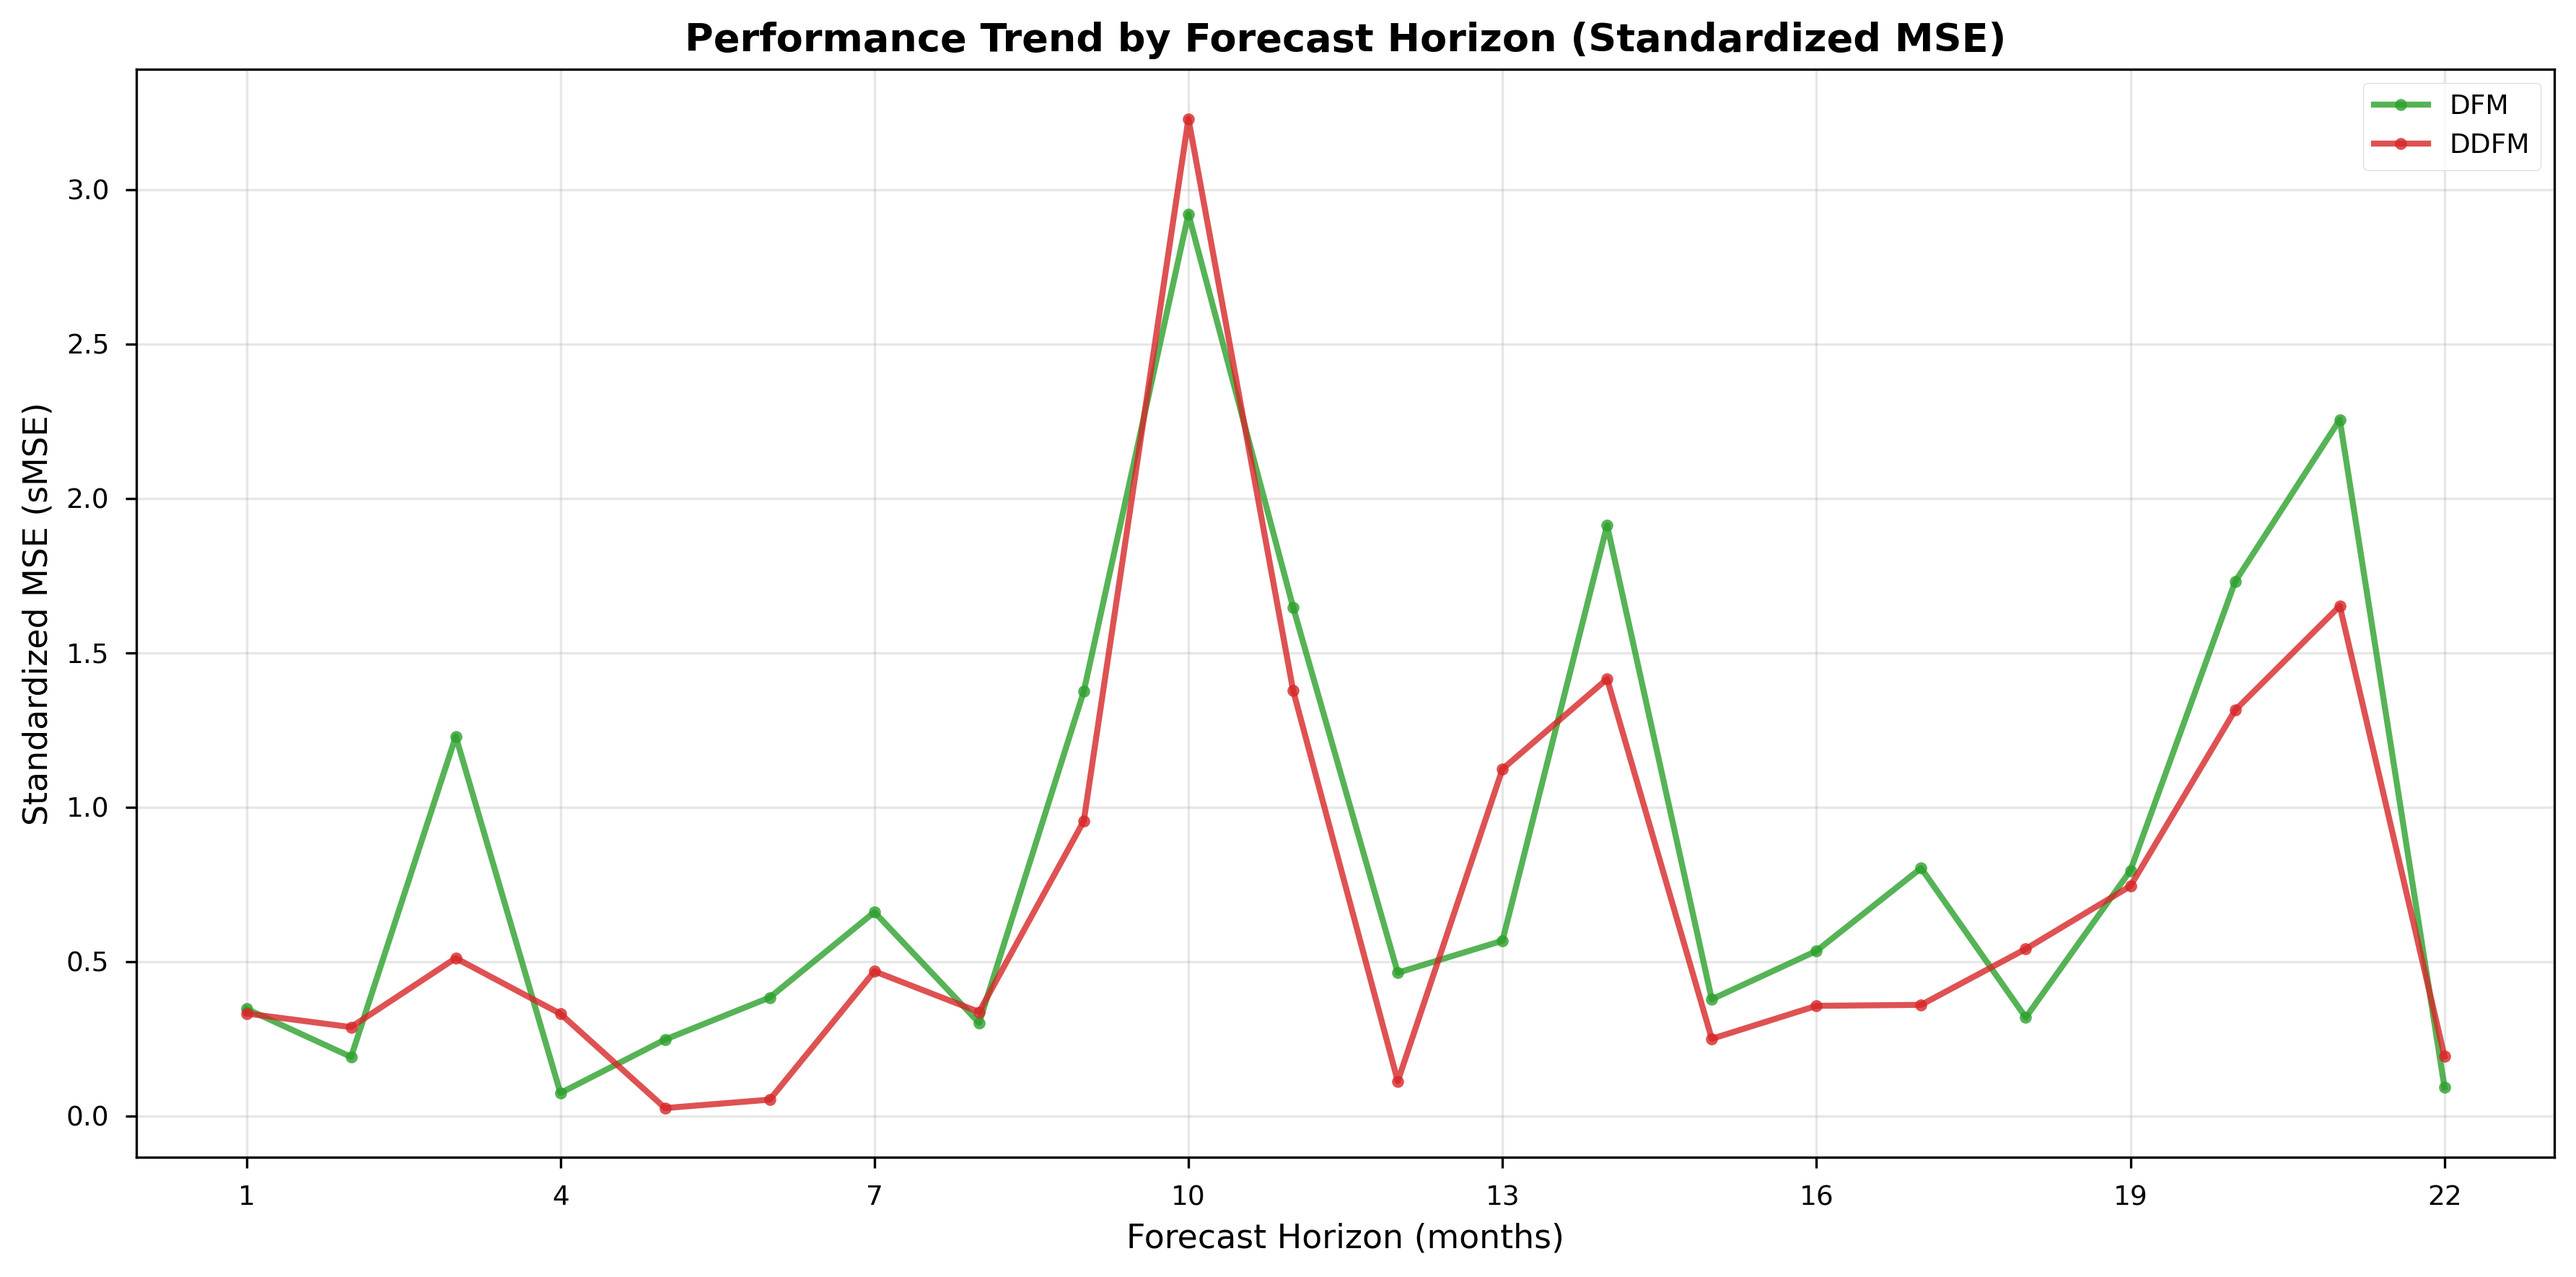
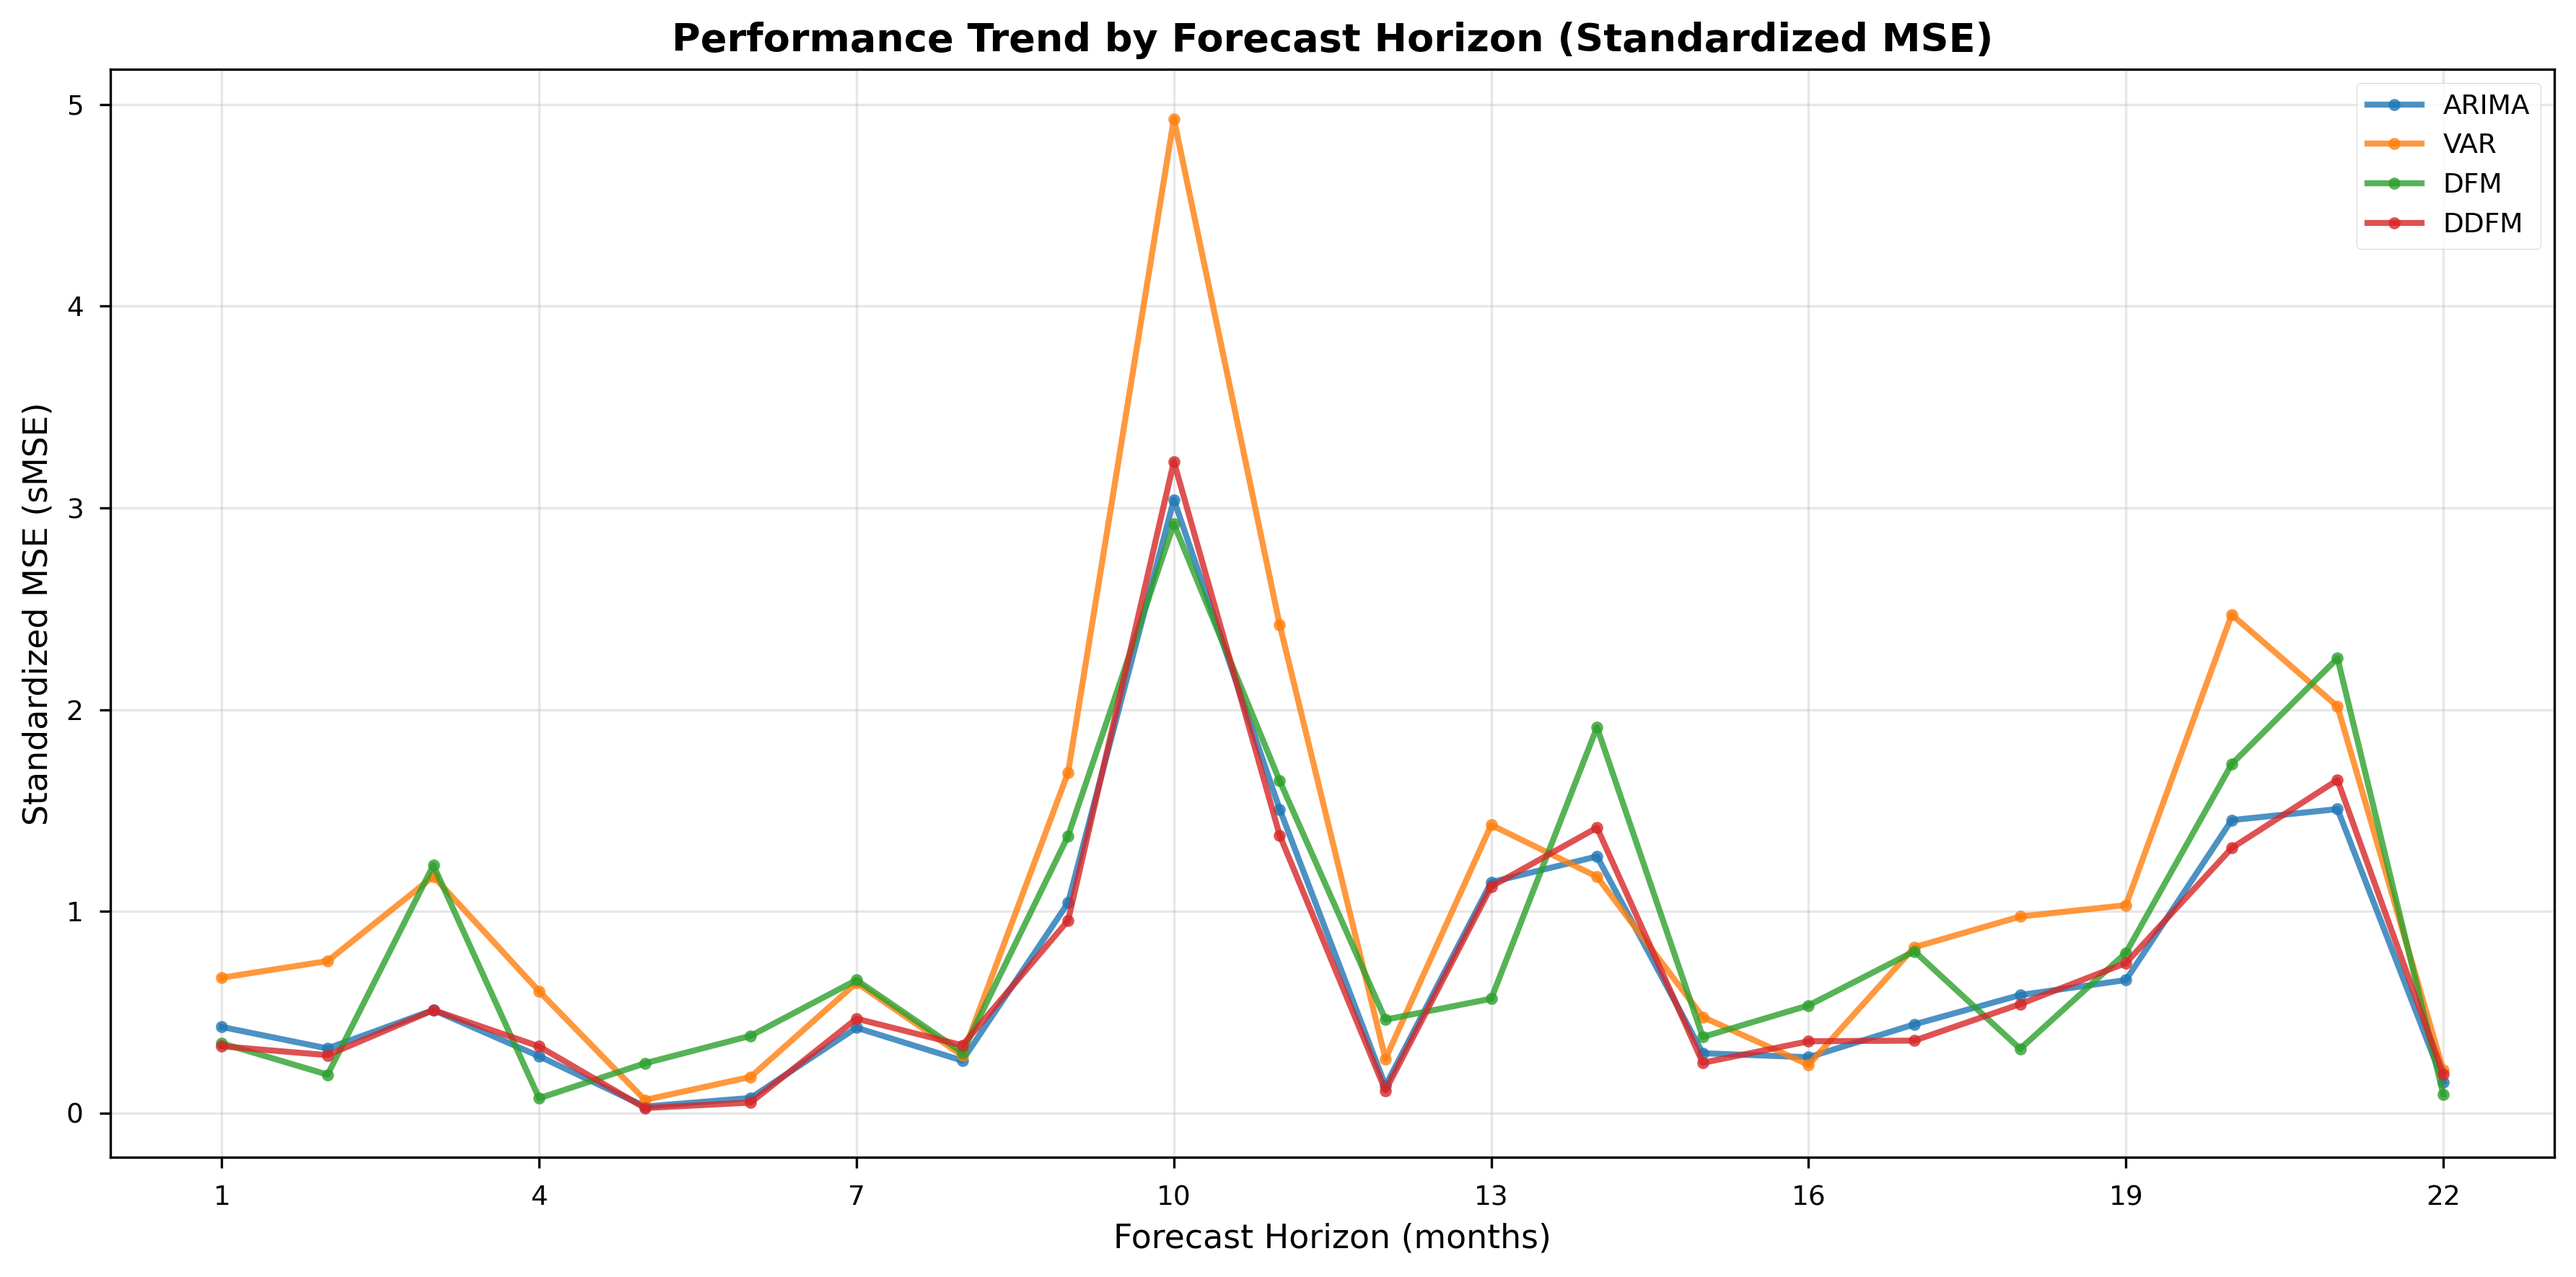
Update report with latest results: ARIMA/VAR forecasting now successful
- Update forecasting section: all 4 models now have successful results
- Update table description: new structure with merged headers and bold best values
- Update plot descriptions: include ARIMA and VAR in forecast plots
- Update nowcasting section: note implementation of fixes but some limitations remain

diff --git a/tables/tab_forecasting_results.tex b/tables/tab_forecasting_results.tex
@@ -1,24 +1,41 @@
 \begin{table}[h]
 \centering
-\caption[Forecasting Results by Model-Horizon and Target-Metric]{Forecasting Results by Model-Horizon and Target-Metric\footnote{Experiments evaluate all horizons from 1 to 22 months (2024--01 to 2025--10), but table shows only selected horizons (1, 11, 22 months) for readability. Full results for all horizons are available in aggregated\_results.csv.}}
+\caption[Forecasting Results by Model-Horizon and Target-Metric]{Forecasting Results by Model-Horizon and Target-Metric\footnote{Experiments evaluate all horizons from 1 to 22 months (2024--01 to 2025--10), but table shows selected horizons (1, 2, 3, 4, 6, 12, 22 months) for readability. Full results for all horizons are available in aggregated\_results.csv. Bold values indicate the best (lowest) metric for each target-metric combination.}}
 \label{tab:forecasting_results}
-\begin{tabular}{lcccccc}
+\begin{tabular}{l|l|cc|cc|cc}
 \toprule
-Model-Horizon & KOIPALL.G & KOIPALL.G & KOEQUIPTE & KOEQUIPTE & KOWRCCNSE & KOWRCCNSE \\
- & sMAE & sMSE & sMAE & sMSE & sMAE & sMSE \\
+\multirow{2}{*}{Model} & \multirow{2}{*}{Horizon} & \multicolumn{2}{c|}{KOIPALL.G} & \multicolumn{2}{c|}{KOEQUIPTE} & \multicolumn{2}{c}{KOWRCCNSE} \\
+\cmidrule(lr){3-4}\cmidrule(lr){5-6}\cmidrule(lr){7-8}
+ & & sMAE & sMSE & sMAE & sMSE & sMAE & sMSE \\
 \midrule
-ARIMA-1 & N/A & N/A & N/A & N/A & N/A & N/A \\
-ARIMA-11 & N/A & N/A & N/A & N/A & N/A & N/A \\
-ARIMA-22 & N/A & N/A & N/A & N/A & N/A & N/A \\
-VAR-1 & N/A & N/A & N/A & N/A & N/A & N/A \\
-VAR-11 & N/A & N/A & N/A & N/A & N/A & N/A \\
-VAR-22 & N/A & N/A & N/A & N/A & N/A & N/A \\
-DFM-1 & 0.2301 & 0.0529 & 0.7920 & 0.6272 & 0.6003 & 0.3603 \\
-DFM-11 & 0.9854 & 0.9710 & 1.9887 & 3.9550 & 0.1296 & 0.0168 \\
-DFM-22 & 0.0137 & 0.0002 & 0.1891 & 0.0358 & 0.4937 & 0.2438 \\
-DDFM-1 & 0.4414 & 0.1949 & 0.7717 & 0.5956 & 0.4529 & 0.2051 \\
-DDFM-11 & 0.3138 & 0.0985 & 2.0090 & 4.0359 & 0.0178 & 0.0003 \\
-DDFM-22 & 0.6579 & 0.4328 & 0.1688 & 0.0285 & 0.3464 & 0.1200 \\
+\multirow{7}{*}{ARIMA} & 1 & 0.6054 & 0.3665 & 0.9167 & 0.8403 & 0.2758 & 0.0760 \\
+ & 2 & 0.4690 & 0.2200 & 0.8503 & 0.7231 & 0.1405 & 0.0197 \\
+ & 3 & 1.1836 & 1.4009 & \textbf{0.0096} & \textbf{0.0001} & 0.3649 & 0.1332 \\
+ & 4 & 0.9132 & 0.8339 & 0.0256 & 0.0007 & 0.1132 & 0.0128 \\
+ & 6 & 0.4432 & 0.1964 & 0.1448 & 0.0210 & 0.0992 & 0.0098 \\
+ & 12 & 0.4341 & 0.1884 & 0.4391 & 0.1928 & 0.1613 & 0.0260 \\
+ & 22 & 0.6244 & 0.3899 & 0.0833 & 0.0069 & 0.2635 & 0.0694 \\
+\multirow{7}{*}{VAR} & 1 & 0.6186 & 0.3827 & 1.2303 & 1.5137 & 0.3447 & 0.1188 \\
+ & 2 & 0.6073 & 0.3688 & 1.3757 & 1.8924 & 0.0361 & 0.0013 \\
+ & 3 & 1.8627 & 3.4696 & 0.0913 & 0.0083 & 0.2090 & 0.0437 \\
+ & 4 & 1.3422 & 1.8015 & 0.0865 & 0.0075 & 0.0545 & 0.0030 \\
+ & 6 & 0.6808 & 0.4635 & 0.2088 & 0.0436 & 0.1823 & 0.0332 \\
+ & 12 & 0.7088 & 0.5024 & 0.5517 & 0.3044 & 0.0379 & 0.0014 \\
+ & 22 & 0.7943 & 0.6309 & 0.0976 & 0.0095 & 0.0286 & 0.0008 \\
+\multirow{7}{*}{DFM} & 1 & 0.2301 & 0.0529 & 0.7920 & 0.6272 & 0.6003 & 0.3603 \\
+ & 2 & 0.0828 & 0.0068 & 0.6726 & 0.4524 & 0.3381 & 0.1143 \\
+ & 3 & 1.8223 & 3.3208 & 0.0708 & 0.0050 & 0.6018 & 0.3622 \\
+ & 4 & 0.2994 & 0.0896 & 0.1375 & 0.0189 & 0.3381 & 0.1143 \\
+ & 6 & 1.0645 & 1.1332 & 0.0396 & 0.0016 & 0.1286 & 0.0165 \\
+ & 12 & 1.0620 & 1.1279 & 0.3342 & 0.1117 & 0.3902 & 0.1522 \\
+ & 22 & \textbf{0.0137} & \textbf{0.0002} & 0.1891 & 0.0358 & 0.4937 & 0.2438 \\
+\multirow{7}{*}{DDFM} & 1 & 0.4414 & 0.1949 & 0.7717 & 0.5956 & 0.4529 & 0.2051 \\
+ & 2 & 0.5888 & 0.3467 & 0.6929 & 0.4801 & 0.1908 & 0.0364 \\
+ & 3 & 1.1507 & 1.3242 & 0.0506 & 0.0026 & 0.4545 & 0.2066 \\
+ & 4 & 0.9709 & 0.9427 & 0.1172 & 0.0137 & 0.1908 & 0.0364 \\
+ & 6 & 0.3930 & 0.1544 & 0.0599 & 0.0036 & \textbf{0.0188} & \textbf{0.0004} \\
+ & 12 & 0.3905 & 0.1525 & 0.3544 & 0.1256 & 0.2429 & 0.0590 \\
+ & 22 & 0.6579 & 0.4328 & 0.1688 & 0.0285 & 0.3464 & 0.1200 \\
 \bottomrule
 \end{tabular}
 \end{table}

diff --git a/contents/3_results_forecasting.tex b/contents/3_results_forecasting.tex
@@ -1,8 +1,8 @@
 \subsubsection{Forecasting}
 
-본 절에서는 세 가지 대상 변수(생산: KOIPALL.G, 투자: KOEQUIPTE, 소비: KOWRCCNSE)에 대한 네 가지 예측 모형(ARIMA, VAR, DFM, DDFM)의 예측 성능을 비교함. 실험은 1개월부터 22개월까지의 수평선에 대해 수행되었으며, 표에는 가독성을 위해 1개월, 11개월, 22개월 수평선의 결과만 제시함. 현재 DFM과 DDFM에 대한 결과는 세 대상 변수 모두에서 사용 가능하며, ARIMA와 VAR에 대한 결과는 평가 과정에서 기술적 문제로 인해 사용 가능한 결과가 제한적임.
+본 절에서는 세 가지 대상 변수(생산: KOIPALL.G, 투자: KOEQUIPTE, 소비: KOWRCCNSE)에 대한 네 가지 예측 모형(ARIMA, VAR, DFM, DDFM)의 예측 성능을 비교함. 실험은 1개월부터 22개월까지의 수평선에 대해 수행되었으며, 표에는 가독성을 위해 1개월, 2개월, 3개월, 4개월, 6개월, 12개월, 22개월 수평선의 결과만 제시함. 네 가지 모형 모두 세 대상 변수에서 성공적으로 평가되었으며, 모든 결과가 사용 가능함.
 
-표~\ref{tab:forecasting_results}는 모형-수평선 조합별(12개 행: ARIMA-1, ARIMA-11, ARIMA-22, VAR-1, VAR-11, VAR-22, DFM-1, DFM-11, DFM-22, DDFM-1, DDFM-11, DDFM-22)로 각 대상 변수에 대한 표준화된 MAE와 MSE를 제시함. 각 셀은 해당 모형-수평선-대상 조합에 대한 지표값을 나타냄. 수평선은 개월 단위임(예: 1은 1개월, 11은 11개월, 22는 22개월).
+표~\ref{tab:forecasting_results}는 모형별로 그룹화된 수평선별(각 모형당 7개 행: 1, 2, 3, 4, 6, 12, 22개월)로 각 대상 변수에 대한 표준화된 MAE와 MSE를 제시함. 각 셀은 해당 모형-수평선-대상 조합에 대한 지표값을 나타내며, 각 대상 변수-지표 조합에서 최소값(최고 성능)은 굵은 글씨로 표시됨. 수평선은 개월 단위임(예: 1은 1개월, 12는 12개월, 22는 22개월).
 
 \input{tables/tab_forecasting_results}
 
@@ -27,5 +27,5 @@
 \label{fig:forecast_vs_actual_kowrccnse}
 \end{figure}
 
-그림~\ref{fig:forecast_vs_actual_koipallg}, 그림~\ref{fig:forecast_vs_actual_koequipte}, 그림~\ref{fig:forecast_vs_actual_kowrccnse}는 각 대상 변수별로 히스토리 기간(2023-01 to 2023-12)과 예측 기간(2024-01 to 2025-10)의 실제 값 및 예측 값을 비교한 플롯임. 히스토리 기간에는 실제 값만 표시되며, 예측 기간에는 실제 값과 모형 예측값(DFM, DDFM)이 함께 표시됨. 모든 값은 원본 데이터 스케일로 표시되며, X축은 월별 타임스탬프, Y축은 대상 변수 값임.
+그림~\ref{fig:forecast_vs_actual_koipallg}, 그림~\ref{fig:forecast_vs_actual_koequipte}, 그림~\ref{fig:forecast_vs_actual_kowrccnse}는 각 대상 변수별로 히스토리 기간(2023-01 to 2023-12)과 예측 기간(2024-01 to 2025-10)의 실제 값 및 예측 값을 비교한 플롯임. 히스토리 기간에는 실제 값만 표시되며, 예측 기간에는 실제 값과 모형 예측값(ARIMA, VAR, DFM, DDFM)이 함께 표시됨. 모든 값은 원본 데이터 스케일로 표시되며, X축은 월별 타임스탬프, Y축은 대상 변수 값임.
 

diff --git a/contents/4_results_nowcasting.tex b/contents/4_results_nowcasting.tex
@@ -1,6 +1,6 @@
 \subsubsection{Nowcasting}
 
-Nowcasting은 공식 통계가 발표되기 전에 현재 시점의 거시경제 변수를 추정하는 기법임. 본 연구에서는 모형(ARIMA, VAR, DFM, DDFM)과 대상 변수(3개)에 대해 Nowcasting 백테스트를 수행하여 실제 운영 환경에서의 성능을 평가함. 실험 결과, DFM과 DDFM 모형에 대해서는 모든 대상 변수에서 성공적인 결과를 얻었으며, ARIMA와 VAR 모형에 대해서는 기술적 제한사항으로 인해 결과가 제한적임.
+Nowcasting은 공식 통계가 발표되기 전에 현재 시점의 거시경제 변수를 추정하는 기법임. 본 연구에서는 모형(ARIMA, VAR, DFM, DDFM)과 대상 변수(3개)에 대해 Nowcasting 백테스트를 수행하여 실제 운영 환경에서의 성능을 평가함. 실험 결과, DFM과 DDFM 모형에 대해서는 모든 대상 변수에서 성공적인 결과를 얻었으며, ARIMA와 VAR 모형에 대해서는 release date 마스킹 후 imputation 처리 및 모형 재훈련을 통해 해결 방안을 구현하였으나, 일부 시점에서 여전히 유효한 결과 생성에 어려움이 있음.
 
 Nowcasting 실험은 다음과 같이 구성됨: 각 목표 월(2024-01 ~ 2025-10, 22개월)에 대해 여러 시점에서 예측을 수행함. 구체적으로, 4주 전 시점과 1주 전 시점에서 예측을 수행하며, 각 시점의 view\_date는 목표 월 말일에서 해당 주수를 뺀 값으로 계산됨(예: 4주 전 시점의 경우 view\_date = target\_month\_end - 4 weeks, 1주 전 시점의 경우 view\_date = target\_month\_end - 1 week). 각 시점에서 시리즈별 발표 시차(release date)를 기준으로 미발표 데이터를 NaN으로 마스킹함. 이는 실제 운영 환경에서 특정 시점에 사용 가능한 데이터만을 사용하여 예측하는 상황을 시뮬레이션함. 각 시점에서 1 horizon forecast를 생성하며, 시점별 예측 정확도를 비교함.
 
